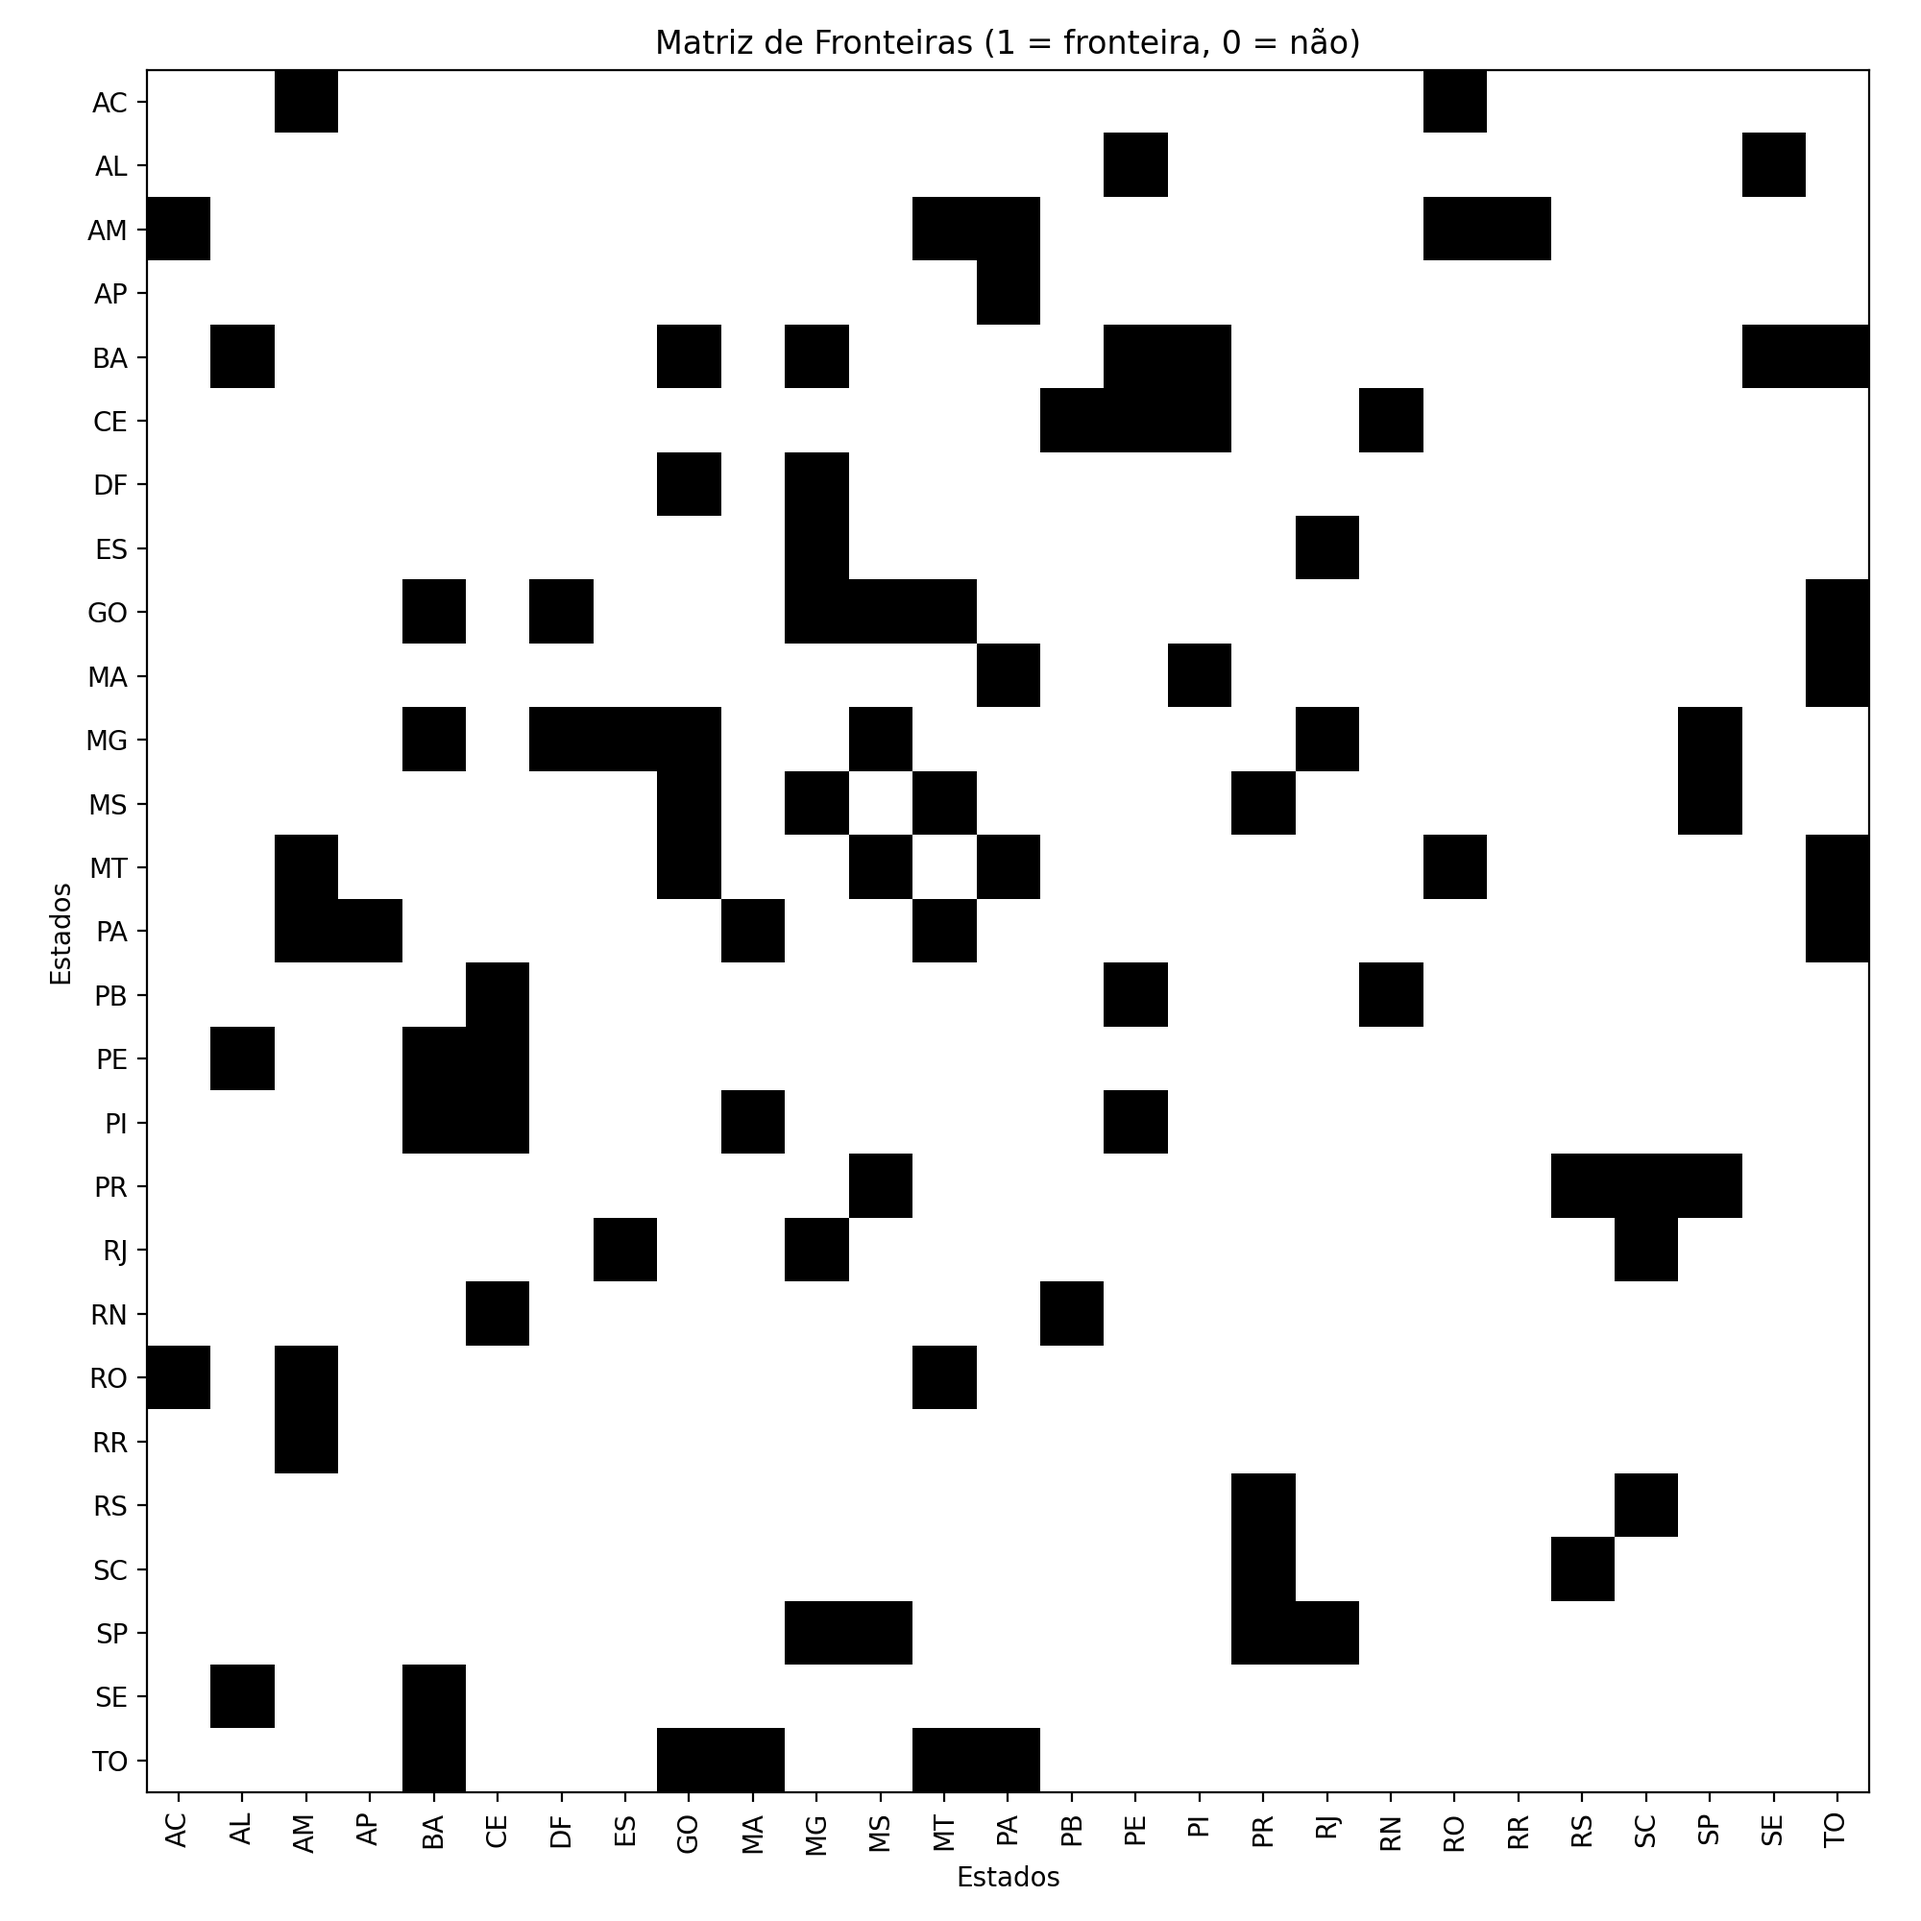
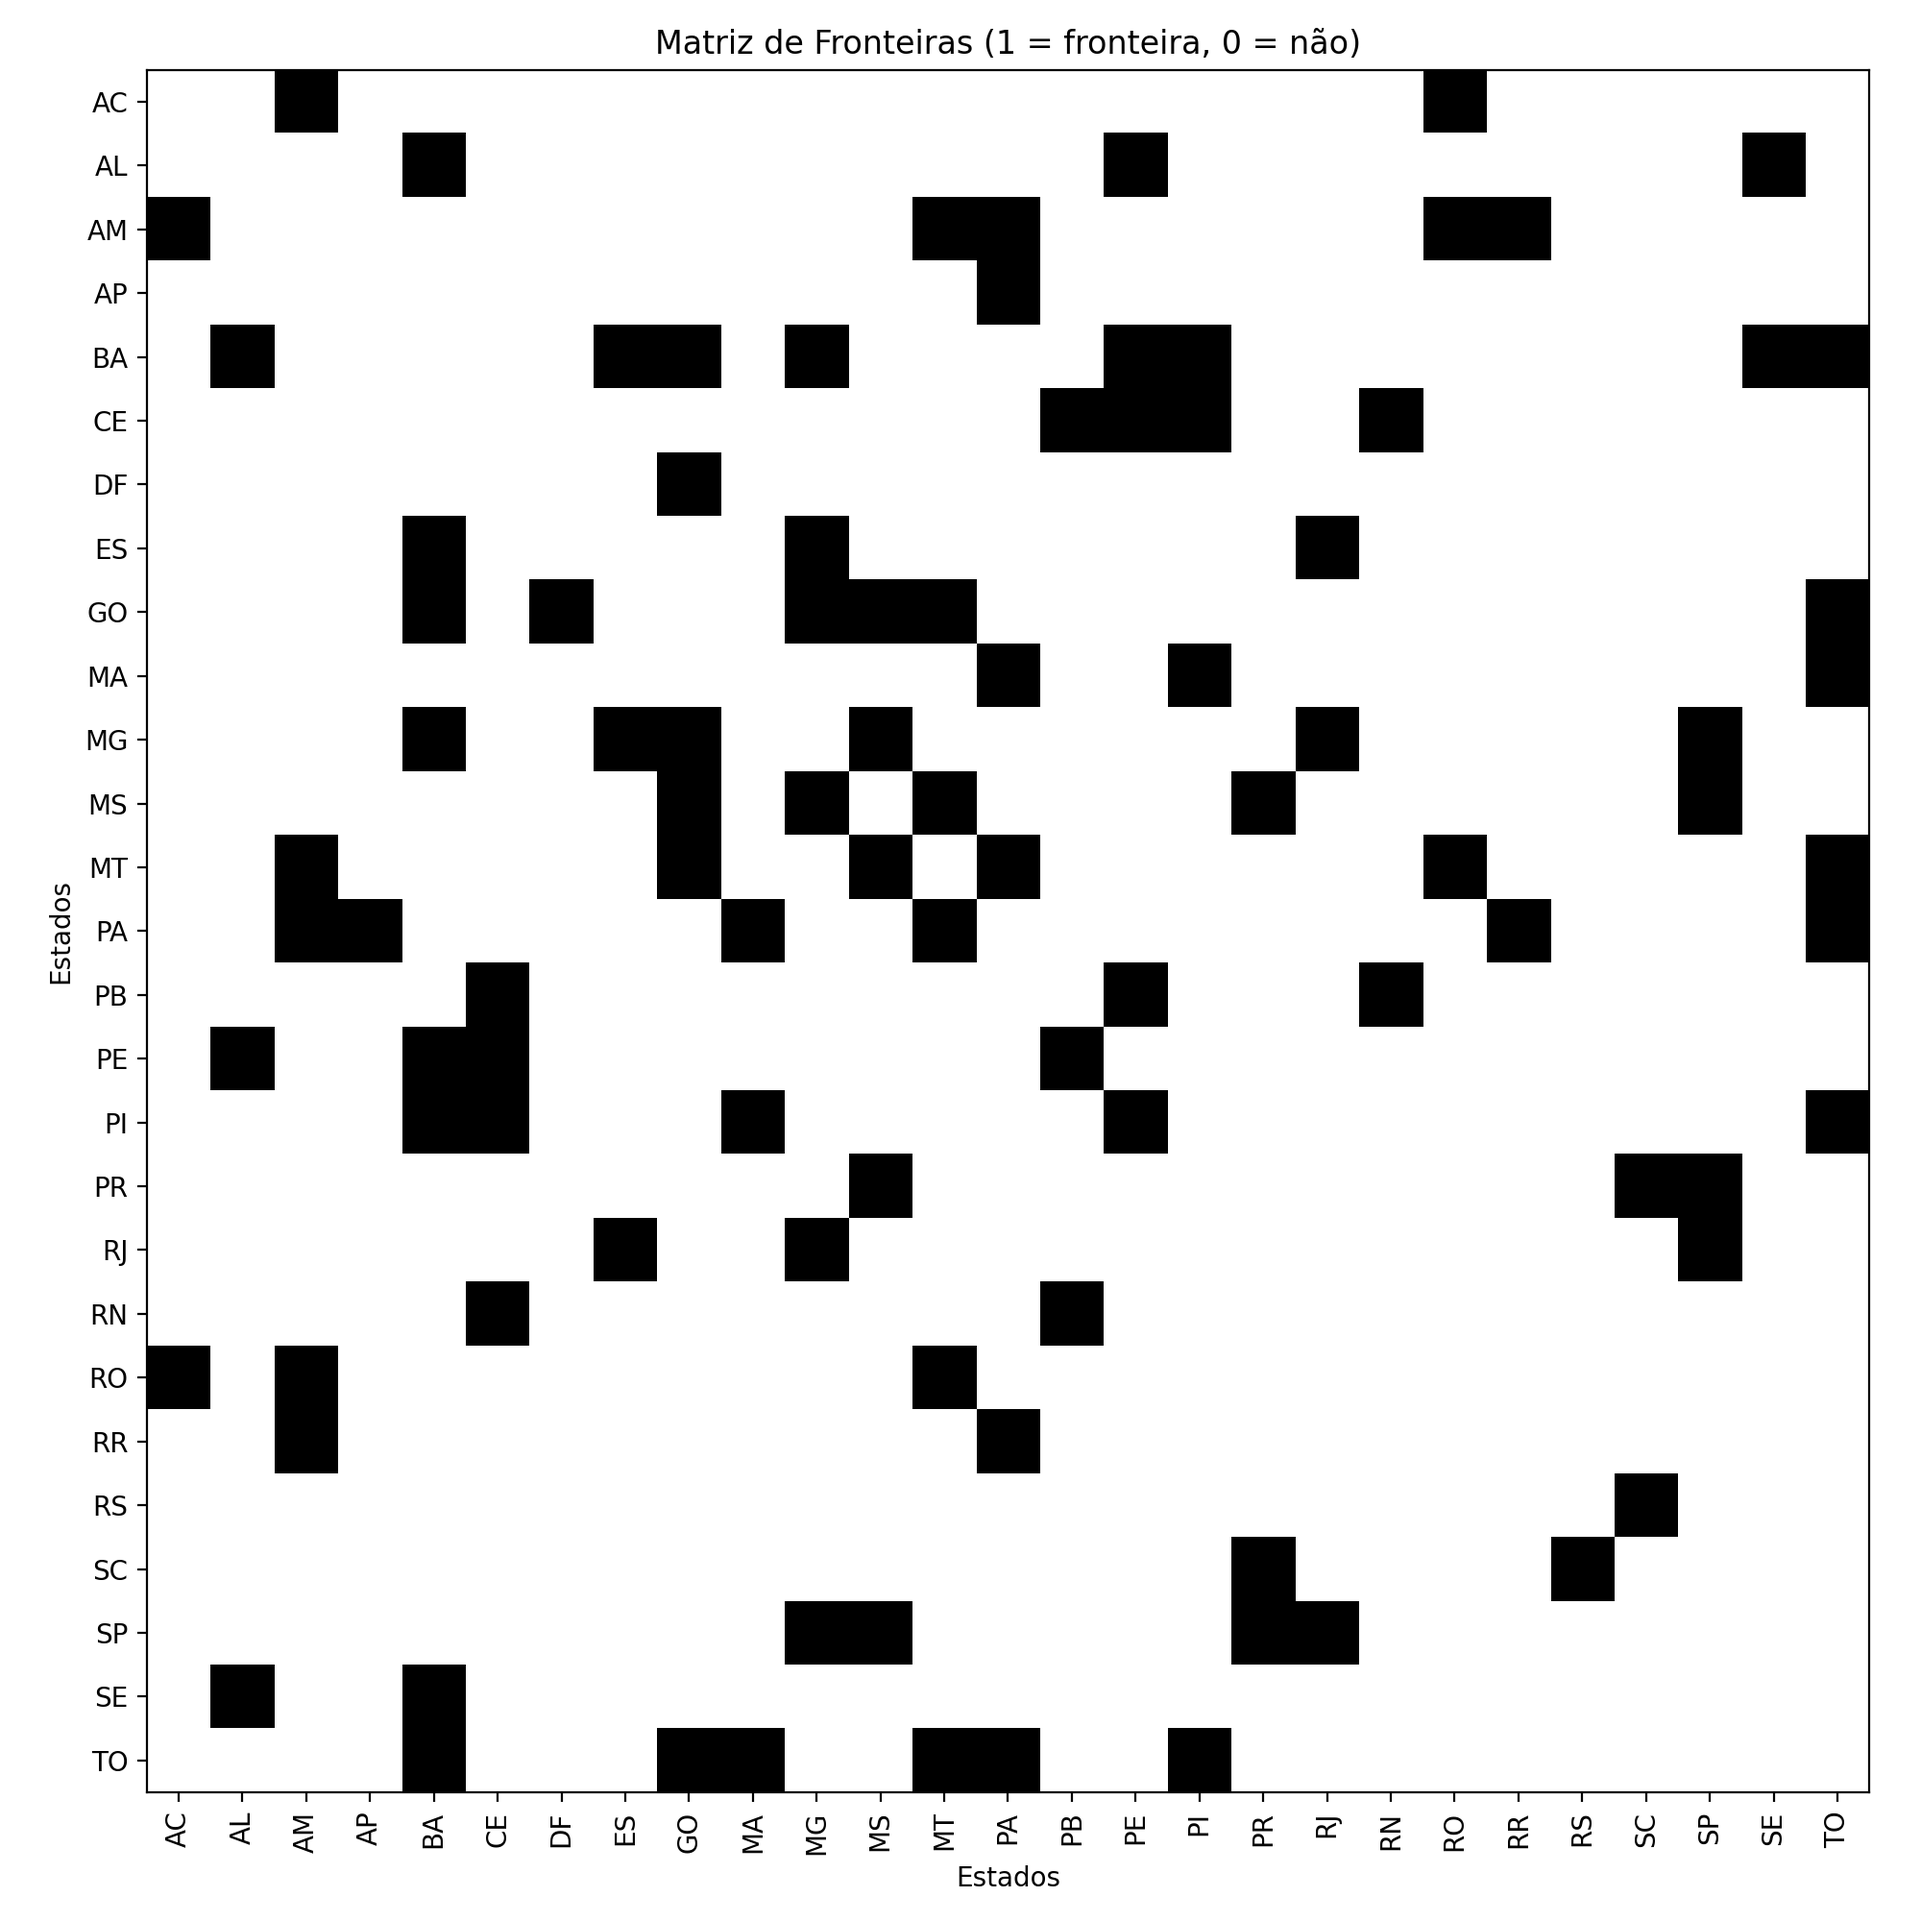
add novos metodos MAdj

diff --git a/MAdj.py b/MAdj.py
@@ -19,49 +19,49 @@ class MAdj:
 		# AC
 		[False, False, True,  False, False, False, False, False, False, False, False, False, False, False, False, False, False, False, False, False, True,  False, False, False, False, False, False],
 		# AL
-		[False, False, False, False, False, False, False, False, False, False, False, False, False, False, False, True,  False, False, False, False, False, False, False, False, False, True,  False],
+		[False, False, False, False, True, False, False, False, False, False, False, False, False, False, False, True,  False, False, False, False, False, False, False, False, False, True,  False],
 		# AM
 		[True,  False, False, False, False, False, False, False, False, False, False, False, True,  True,  False, False, False, False, False, False, True,  True,  False, False, False, False, False],
 		# AP
 		[False, False, False, False, False, False, False, False, False, False, False, False, False, True,  False, False, False, False, False, False, False, False, False, False, False, False, False],
 		# BA
-		[False, True,  False, False, False, False, False, False, True,  False, True,  False, False, False, False, True,  True,  False, False, False, False, False, False, False, False, True,  True ],
+		[False, True,  False, False, False, False, False, True, True,  False, True,  False, False, False, False, True,  True,  False, False, False, False, False, False, False, False, True,  True ],
 		# CE
 		[False, False, False, False, False, False, False, False, False, False, False, False, False, False, True,  True,  True,  False, False, True,  False, False, False, False, False, False, False],
 		# DF
-		[False, False, False, False, False, False, False, False, True,  False, True,  False, False, False, False, False, False, False, False, False, False, False, False, False, False, False, False],
+		[False, False, False, False, False, False, False, False, True,  False, False,  False, False, False, False, False, False, False, False, False, False, False, False, False, False, False, False],
 		# ES
-		[False, False, False, False, False, False, False, False, False, False, True,  False, False, False, False, False, False, False, True,  False, False, False, False, False, False, False, False],
+		[False, False, False, False, True, False, False, False, False, False, True,  False, False, False, False, False, False, False, True,  False, False, False, False, False, False, False, False],
 		# GO
 		[False, False, False, False, True,  False, True,  False, False, False, True,  True,  True,  False, False, False, False, False, False, False, False, False, False, False, False, False, True ],
 		# MA
 		[False, False, False, False, False, False, False, False, False, False, False, False, False, True,  False, False, True,  False, False, False, False, False, False, False, False, False, True ],
 		# MG
-		[False, False, False, False, True,  False, True,  True,  True,  False, False, True,  False, False, False, False, False, False, True,  False, False, False, False, False, True,  False, False],
+		[False, False, False, False, True,  False, False,  True,  True,  False, False, True,  False, False, False, False, False, False, True,  False, False, False, False, False, True,  False, False],
 		# MS
 		[False, False, False, False, False, False, False, False, True,  False, True,  False, True,  False, False, False, False, True,  False, False, False, False, False, False, True,  False, False],
 		# MT
 		[False, False, True,  False, False, False, False, False, True,  False, False, True,  False, True,  False, False, False, False, False, False, True,  False, False, False, False, False, True ],
 		# PA
-		[False, False, True,  True,  False, False, False, False, False, True,  False, False, True,  False, False, False, False, False, False, False, False, False, False, False, False, False, True ],
+		[False, False, True,  True,  False, False, False, False, False, True,  False, False, True,  False, False, False, False, False, False, False, False, True, False, False, False, False, True ],
 		# PB
 		[False, False, False, False, False, True,  False, False, False, False, False, False, False, False, False, True,  False, False, False, True,  False, False, False, False, False, False, False],
 		# PE
-		[False, True,  False, False, True,  True,  False, False, False, False, False, False, False, False, False, False, False, False, False, False, False, False, False, False, False, False, False],
+		[False, True,  False, False, True,  True,  False, False, False, False, False, False, False, False, True, False, False, False, False, False, False, False, False, False, False, False, False],
 		# PI
-		[False, False, False, False, True,  True,  False, False, False, True,  False, False, False, False, False, True,  False, False, False, False, False, False, False, False, False, False, False],
+		[False, False, False, False, True,  True,  False, False, False, True,  False, False, False, False, False, True,  False, False, False, False, False, False, False, False, False, False, True],
 		# PR
-		[False, False, False, False, False, False, False, False, False, False, False, True,  False, False, False, False, False, False, False, False, False, False, True,  True,  True,  False, False],
+		[False, False, False, False, False, False, False, False, False, False, False, True,  False, False, False, False, False, False, False, False, False, False, False,  True,  True,  False, False],
 		# RJ
-		[False, False, False, False, False, False, False, True,  False, False, True,  False, False, False, False, False, False, False, False, False, False, False, False, True,  False, False, False],
+		[False, False, False, False, False, False, False, True,  False, False, True,  False, False, False, False, False, False, False, False, False, False, False, False, False,  True, False, False],
 		# RN
 		[False, False, False, False, False, True,  False, False, False, False, False, False, False, False, True,  False, False, False, False, False, False, False, False, False, False, False, False],
 		# RO
 		[True,  False, True,  False, False, False, False, False, False, False, False, False, True,  False, False, False, False, False, False, False, False, False, False, False, False, False, False],
 		# RR
-		[False, False, True,  False, False, False, False, False, False, False, False, False, False, False, False, False, False, False, False, False, False, False, False, False, False, False, False],
+		[False, False, True,  False, False, False, False, False, False, False, False, False, False, True, False, False, False, False, False, False, False, False, False, False, False, False, False],
 		# RS
-		[False, False, False, False, False, False, False, False, False, False, False, False, False, False, False, False, False, True,  False, False, False, False, False, True,  False, False, False],
+		[False, False, False, False, False, False, False, False, False, False, False, False, False, False, False, False, False, False,  False, False, False, False, False, True,  False, False, False],
 		# SC
 		[False, False, False, False, False, False, False, False, False, False, False, False, False, False, False, False, False, True,  False, False, False, False, True,  False, False, False, False],
 		# SP
@@ -69,7 +69,7 @@ class MAdj:
 		# SE
 		[False, True,  False, False, True,  False, False, False, False, False, False, False, False, False, False, False, False, False, False, False, False, False, False, False, False, False, False],
 		# TO
-		[False, False, False, False, True,  False, False, False, True,  True,  False, False, True,  True,  False, False, False, False, False, False, False, False, False, False, False, False, False],
+		[False, False, False, False, True,  False, False, False, True,  True,  False, False, True,  True,  False, False, True, False, False, False, False, False, False, False, False, False, False],
 	]
 
 	@classmethod
@@ -105,6 +105,98 @@ class MAdj:
 
 		# Retornar fig/ax para quem chamar; não forçar show/ save aqui
 		return fig, ax
+
+	@classmethod
+	def calcular_graus(cls):
+		graus = {}
+		for i, estado in enumerate(cls.STATES):
+			grau = sum(cls.MATRIX[i])
+			graus[estado] = grau
+		return graus
+
+
+	@classmethod
+	def listar_vizinhos(cls, estado):
+		indice = cls.STATES.index(estado)
+		vizinhos = []
+
+		for j, eh_vizinho in enumerate(cls.MATRIX[indice]):
+			if eh_vizinho:
+				vizinhos.append(cls.STATES[j])
+
+		return vizinhos
+
+	@classmethod
+	def estados_com_grau_maximo(cls):
+		graus = cls.calcular_graus()
+		maior_grau = max(graus.values())
+
+		estados = []
+		for estado, grau in graus.items():
+			if grau == maior_grau:
+				estados.append(estado)
+
+		return maior_grau, estados
+
+	@classmethod
+	def estados_com_grau_minimo(cls):
+		graus = cls.calcular_graus()
+		menor_grau = min(graus.values())
+
+		estados = []
+		for estado, grau in graus.items():
+			if grau == menor_grau:
+				estados.append(estado)
+
+		return menor_grau, estados
+
+	@classmethod
+	def frequencia_dos_graus(cls):
+		graus = cls.calcular_graus()
+		frequencia = {}
+
+		for grau in graus.values():
+			if grau not in frequencia:
+				frequencia[grau] = 0
+			frequencia[grau] += 1
+
+		return frequencia
+
+	@classmethod
+	def plotar_histograma_graus(cls):
+		graus = list(cls.calcular_graus().values())
+
+		plt.figure(figsize=(8, 5))
+		plt.hist(graus, bins=range(min(graus), max(graus) + 2), align='left',
+				color='skyblue', edgecolor='black', rwidth=0.8)
+
+		plt.xlabel('Grau')
+		plt.ylabel('Frequência')
+		plt.title('Histograma da Frequência dos Graus')
+		plt.xticks(range(min(graus), max(graus) + 1))
+		plt.grid(axis='y', linestyle='--', alpha=0.7)
+		plt.tight_layout()
+		plt.show()
+
+	@classmethod
+	def mostrar_resultados(cls):
+		maior_grau, estados_max = cls.estados_com_grau_maximo()
+		menor_grau, estados_min = cls.estados_com_grau_minimo()
+
+		print('Estados com grau máximo:', maior_grau)
+		for estado in estados_max:
+			print(f'- {estado}: vizinhos = {cls.listar_vizinhos(estado)}')
+
+		print('\nEstados com grau mínimo:', menor_grau)
+		for estado in estados_min:
+			print(f'- {estado}: vizinhos = {cls.listar_vizinhos(estado)}')
+
+		print('\nFrequência dos graus:')
+		frequencia = cls.frequencia_dos_graus()
+		for grau in sorted(frequencia):
+			print(f'Grau {grau}: {frequencia[grau]} estado(s)')
+
+	
 
 
     
